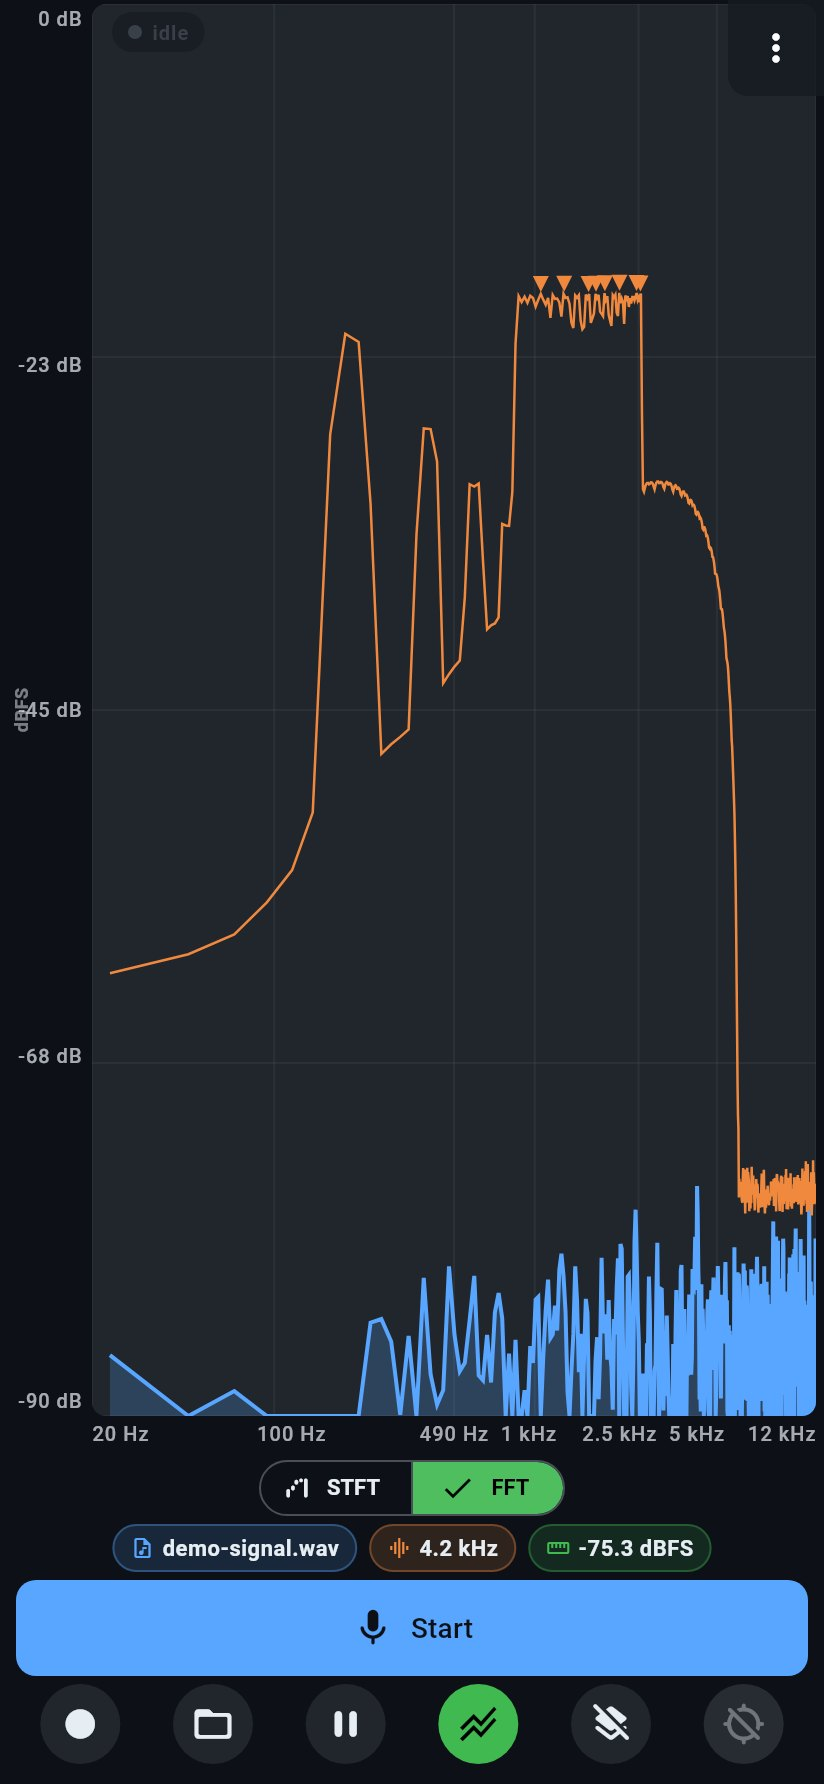
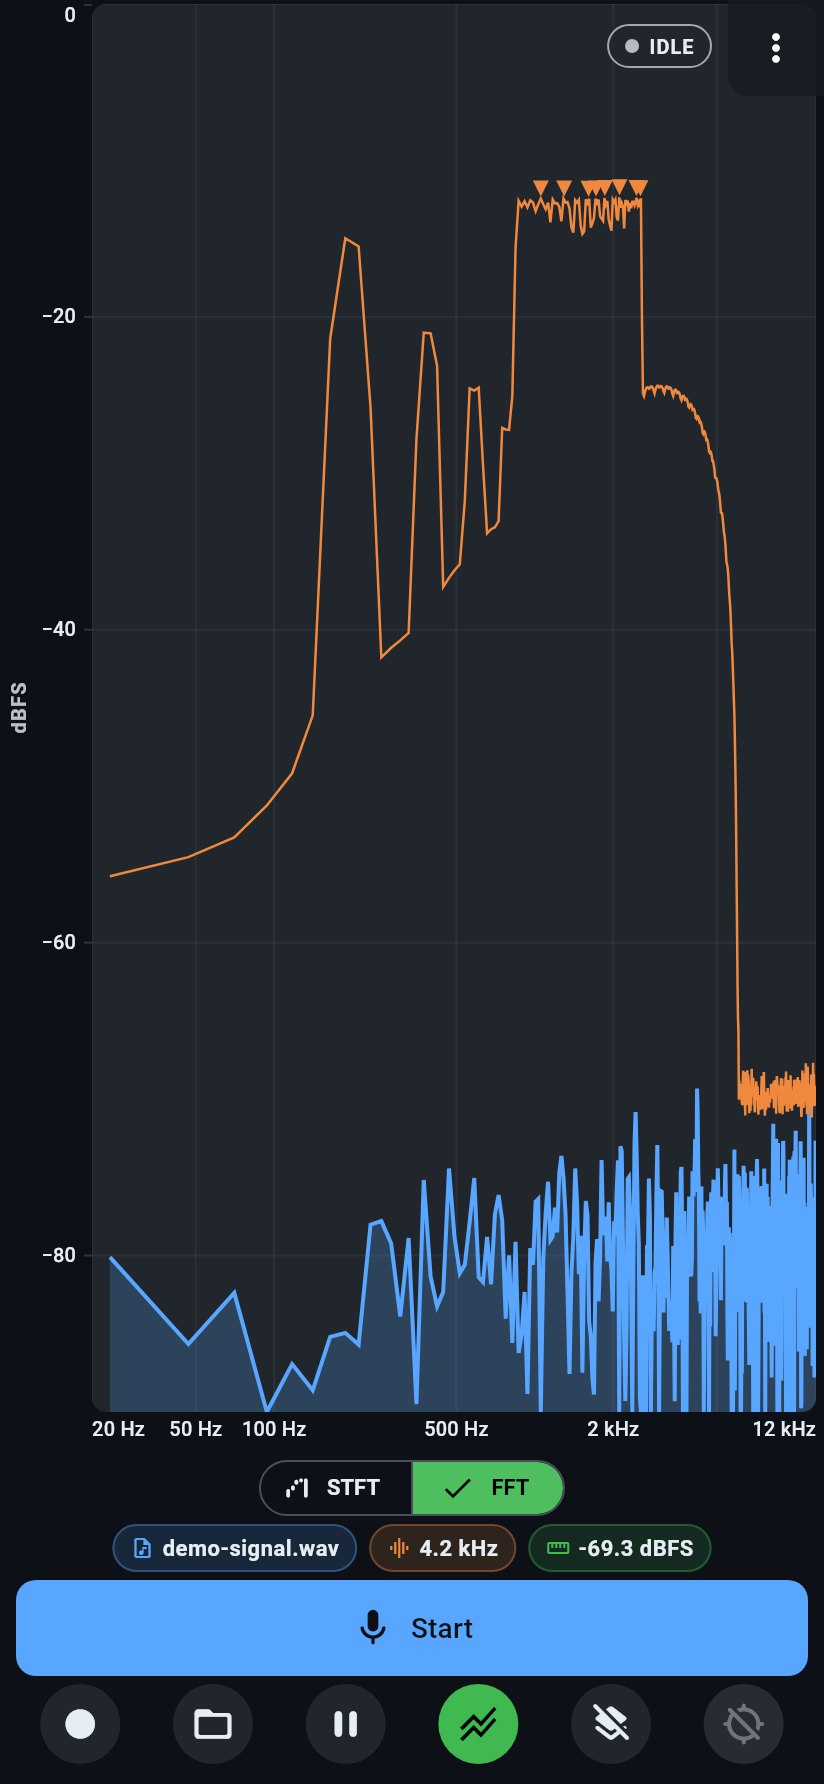
Pages: retake screenshots after the axis label fix

diff --git a/index.html b/index.html
@@ -31,7 +31,7 @@
     <section id="screenshots">
       <h2>Screenshots</h2>
       <ul class="shots">
-        <li><figure class="shot phone"><a href="images/stft.jpg"><img src="images/stft.jpg" alt="A scrolling STFT of a demo signal, with a crosshair readout."></a><figcaption>Spectrogram</figcaption></figure></li><li><figure class="shot phone"><a href="images/fft.jpg"><img src="images/fft.jpg" alt="Live frequency vs dBFS, with a peak-hold envelope."></a><figcaption>Spectrum</figcaption></figure></li><li><figure class="shot phone"><a href="images/settings.jpg"><img src="images/settings.jpg" alt="Sample rate, FFT size, window, colormap, and theme."></a><figcaption>Settings</figcaption></figure></li><li><figure class="shot phone"><a href="images/stft-light.jpg"><img src="images/stft-light.jpg" alt="The spectrogram in the light theme."></a><figcaption>Light theme</figcaption></figure></li>
+        <li><figure class="shot phone"><a href="images/stft.jpg"><img src="images/stft.jpg" alt="STFT of the demo signal: a rising whistle and a sung harmonic tone, on a log frequency axis from 20 Hz to 12 kHz."></a><figcaption>Spectrogram</figcaption></figure></li><li><figure class="shot phone"><a href="images/fft.jpg"><img src="images/fft.jpg" alt="FFT spectrum of the demo signal in dBFS, with a peak-hold envelope and marked peaks."></a><figcaption>Spectrum</figcaption></figure></li><li><figure class="shot phone"><a href="images/settings.jpg"><img src="images/settings.jpg" alt="Settings: color scheme, colormap, frequency scale, peak hold, microphone, sample rate, and FFT size."></a><figcaption>Settings</figcaption></figure></li><li><figure class="shot phone"><a href="images/stft-light.jpg"><img src="images/stft-light.jpg" alt="The spectrogram in the light theme."></a><figcaption>Light theme</figcaption></figure></li>
       </ul>
     </section>
     <section id="install">
